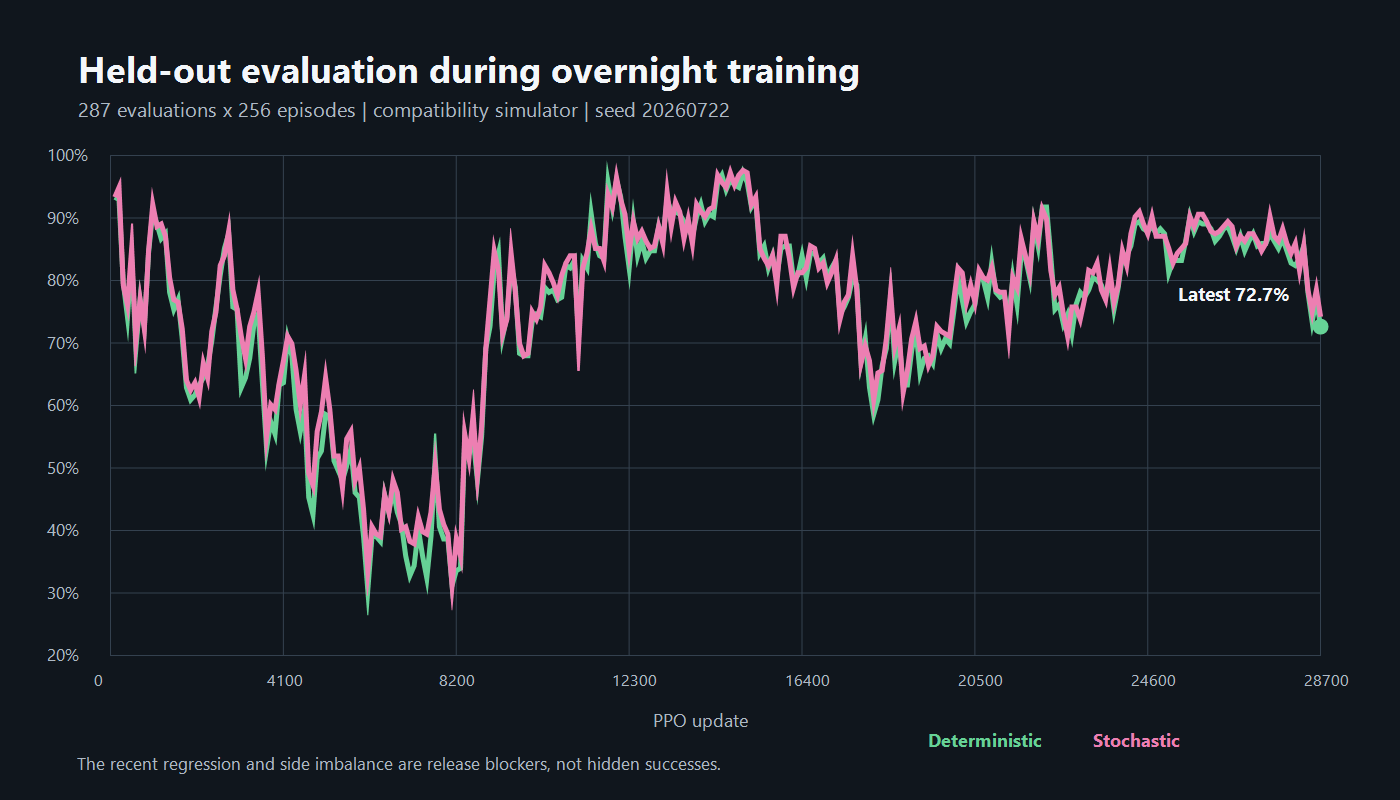
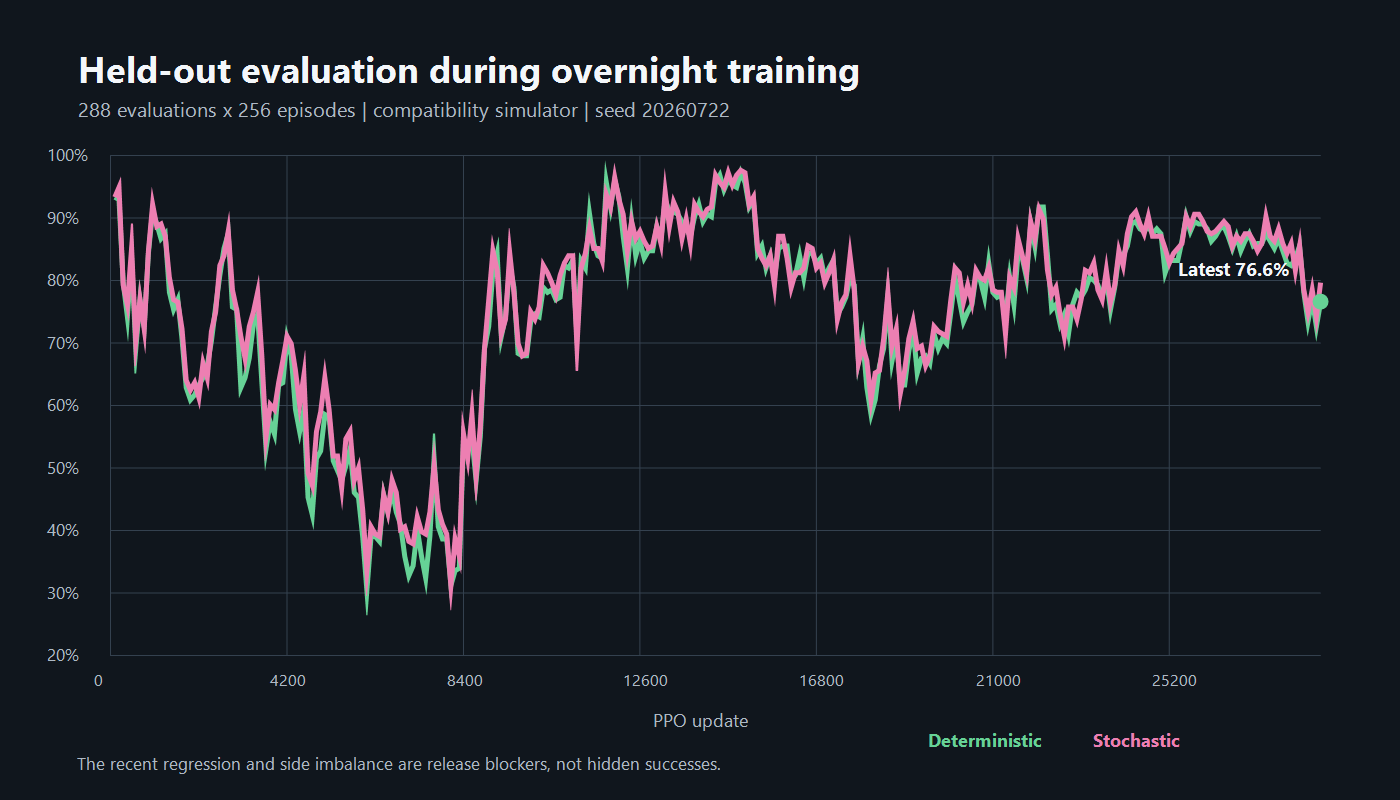
Refresh training graph at update 28800

diff --git a/README.md b/README.md
@@ -251,34 +251,34 @@ matchup results, behavior statistics, Elo, and forgetting checks.
 
 ### Measured training snapshot
 
-The following snapshot was captured at update 28,700 on 2026-09-20 from the active compatibility run
+The following snapshot was captured at update 28,800 on 2026-09-20 from the active compatibility run
 `overnight_roster_visual_shaped_seed20260722`. It used 32,768 environments, a horizon of 128,
 four PPO epochs, a 131,072-sample minibatch, visual observations, shaped rewards, and the roster
 opponent curriculum.
 
 | Measurement | Result |
 |---|---:|
-| Completed PPO updates | 28,700 |
-| Environment decisions | 120,376,524,800 |
-| Trainer elapsed time | 17:04:14 |
-| End-to-end run throughput | 1,958,777 decisions/s |
-| Atomic policy/state checkpoint pairs | 287 |
-| Saved held-out evaluations | 287 x 256 episodes |
+| Completed PPO updates | 28,800 |
+| Environment decisions | 120,795,955,200 |
+| Trainer elapsed time | 17:07:47 |
+| End-to-end run throughput | 1,958,829 decisions/s |
+| Atomic policy/state checkpoint pairs | 288 |
+| Saved held-out evaluations | 288 x 256 episodes |
 | Mean deterministic held-out win rate | 74.6% |
 | Deterministic held-out range | 30.5% to 97.3% |
-| Last-10 deterministic evaluation mean | 80.7% |
-| Latest deterministic/stochastic win rate | 72.7% / 74.2% |
-| Latest P1/P2 deterministic win rate | 58.6% / 86.7% |
-| Latest approximate KL / clip fraction | 0.00064 / 0.0055 |
-| Latest value loss | 0.00196 |
+| Last-10 deterministic evaluation mean | 79.7% |
+| Latest deterministic/stochastic win rate | 76.6% / 79.7% |
+| Latest P1/P2 deterministic win rate | 65.6% / 87.5% |
+| Latest approximate KL / clip fraction | 0.00156 / 0.0116 |
+| Latest value loss | 0.09997 |
 | Trainer stderr | Empty |
 
 ![Held-out evaluation curve](docs/images/v3-training-curve.png)
 
 At this point the run was actively using 80% latest-self and 20% best-older checkpoint opponents.
 The process remained stable and error-free, recovered from its update-6,100 low, and reached a
-97.3% peak at update 15,000. The latest ten evaluations still average 80.7%, but the newest results
-are declining and the 28.1-point P1/P2 gap is unacceptable. The run is productive but unstable,
+97.3% peak at update 15,000. The latest ten evaluations still average 79.7%, but recent results
+remain below their earlier peak and the 21.9-point P1/P2 gap is unacceptable. The run is productive but unstable,
 not dead and not solved. Self-play regression, side robustness, and checkpoint promotion remain
 explicit release blockers below.
 
@@ -396,7 +396,7 @@ Regenerate both README figures from a saved run with:
 
 ```powershell
 powershell -NoProfile -ExecutionPolicy Bypass `
-  -File tools\render_readme_figures.ps1 -MaxUpdate 28700
+  -File tools\render_readme_figures.ps1 -MaxUpdate 28800
 ```
 
 ## Documentation
@@ -418,8 +418,8 @@ validation required for promotion.
 
 ### Immediate training blockers
 
-- [ ] Diagnose repeated held-out oscillation: 97.3% peak, 30.5% trough, and 72.7% latest result.
-- [ ] Fix the latest 58.6% P1 versus 86.7% P2 gap and add a side-gap promotion threshold.
+- [ ] Diagnose repeated held-out oscillation: 97.3% peak, 30.5% trough, and 76.6% latest result.
+- [ ] Fix the latest 65.6% P1 versus 87.5% P2 gap and add a side-gap promotion threshold.
 - [ ] Audit latest-self opponent loading, frozen recurrent history, side routing, and reset state.
 - [ ] Re-evaluate why checkpoint 100 remains the best older opponent after 70 evaluations.
 - [ ] Add automatic rollback or pause when held-out score, exploitability, or side balance regresses.
